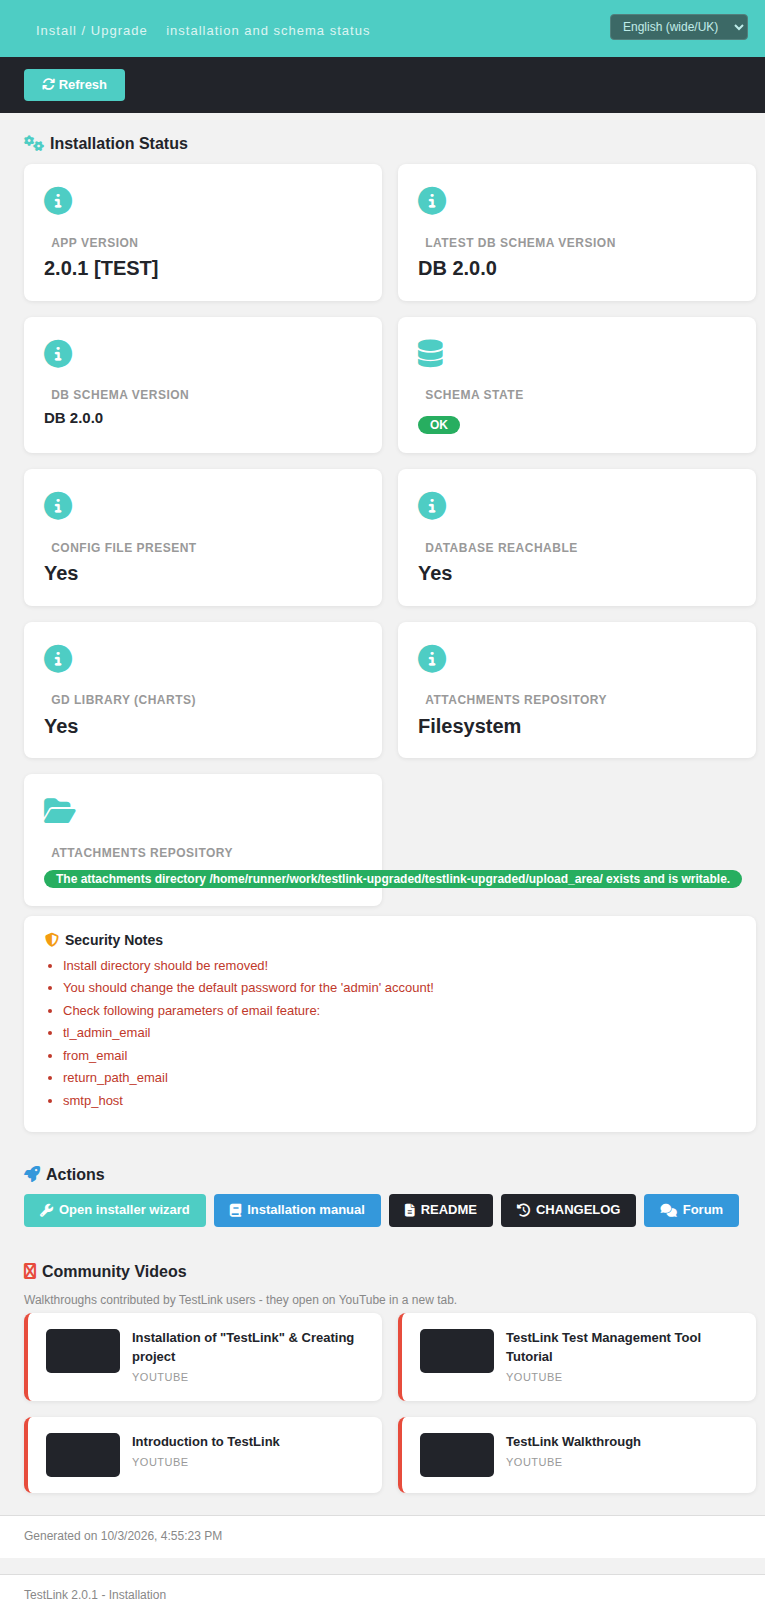
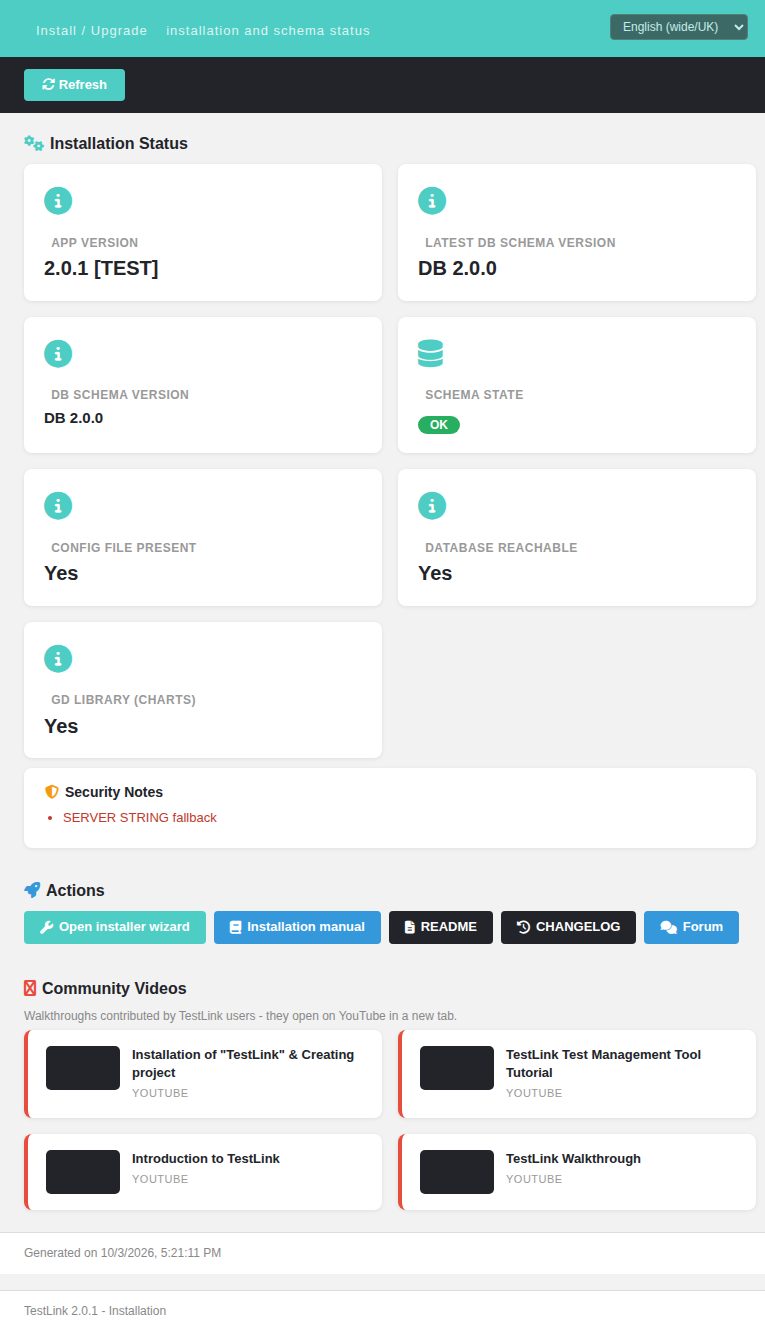
Install/Upgrade: harden the #1283 repository check after code review
- api/install/index.php: JSON_INVALID_UTF8_SUBSTITUTE + json_last_error() guard.
  A configured repository path that is not valid UTF-8 made json_encode() return
  false, so the endpoint answered HTTP 200 with an EMPTY body and the whole
  screen died silently (no Event Viewer / log trace). Measured: 0 bytes before,
  1626 bytes with a substituted character after.
- Drop the securityNoteItems hints when they are not index-parallel to
  securityNotes, so a future note appended to only one array can never shift
  the following notes onto the wrong text.
- install_check_repository_dir(): (string) cast, so a hand-edited non-string
  config value cannot raise a TypeError; docblock notes that the legacy
  function is still live at lib/functions/common.php:583 and that the result is
  a point-in-time snapshot.
- installView.html: TLi18n.has() guards both the localized note and the badge
  (TLi18n.t() returns the raw key for an unknown key, so the documented
  fallback to the server string never fired); distinct label for the directory
  card via the new install.repositoryDir key; "exists but not writable" now uses
  the existing .badge.warn instead of the schema-state red classes; '/' as path
  placeholder for an empty configured path.
- i18n: install.repositoryDir added to all 10 bundles (+1 line each).
- Docs/wiki: corrected the legacy note sites (login.php:230 and
  lib/functions/common.php:1853-1858, not mainPage.php:184 / common.php:1787)
[…]

Changed region(s): [[0.0, 0.0, 1.0, 1.0], [0.5111, 0.5848, 0.5412, 0.6156], [0.451, 0.5848, 0.481, 0.6156]]

diff --git a/gui/templates/install/installView.html b/gui/templates/install/installView.html
@@ -152,26 +152,31 @@ function renderRepositoryCards(grid, r) {
   var typeLabel = TLi18n.t(repo.typeCode === 'db' ? 'install.repoTypeDb' : 'install.repoTypeFs');
   grid.append(card(TLi18n.t('install.repository'), typeLabel));
 
+  // Path may be empty (hand-edited config): show a placeholder instead of a
+  // sentence with a hole in it.
+  var path = repo.path == null || repo.path === '' ? '/' : String(repo.path);
   var badgeCls = 'unknown', badgeKey = 'install.repoDirNotChecked', params = {};
   if (repo.checked) {
-    params = { path: repo.path == null ? '' : repo.path };
+    params = { path: path };
     if (repo.status_ok) {
       badgeCls = 'ok';
       badgeKey = 'install.repoDirOk';
     } else if (repo.exists) {
-      badgeCls = 'manual';
+      badgeCls = 'warn';
       badgeKey = 'install.repoDirNotWritable';
     } else {
       badgeCls = 'upgrade';
       badgeKey = 'install.repoDirMissing';
     }
   }
+  // TLi18n.t() returns the raw key when a bundle lacks it, so probe has() first.
+  var badgeText = TLi18n.has(badgeKey) ? TLi18n.t(badgeKey, params) : path;
   grid.append(
     $('<div class="card">')
       .append('<div class="icon"><i class="fa fa-folder-open"></i></div>')
-      .append('<div class="label">' + esc(TLi18n.t('install.repository')) + '</div>')
+      .append('<div class="label">' + esc(TLi18n.t('install.repositoryDir')) + '</div>')
       .append('<div class="value small"><span class="badge ' + badgeCls + '">' +
-              esc(TLi18n.t(badgeKey, params)) + '</span></div>')
+              esc(badgeText) + '</span></div>')
   );
 }
 
@@ -243,7 +248,9 @@ function renderStatus(r) {
     var items = Array.isArray(r.securityNoteItems) ? r.securityNoteItems : [];
     $.each(r.securityNotes, function(i, n) {
       var it = items[i];
-      var text = (it && it.key) ? TLi18n.t(it.key, it.params || {}) : n;
+      // TLi18n.t() returns the raw key for an unknown key, so has() guards the
+      // localized branch and the server string is used when a bundle is behind.
+      var text = (it && it.key && TLi18n.has(it.key)) ? TLi18n.t(it.key, it.params || {}) : n;
       ul.append($('<li>').text(text == null || text === '' ? n : text));
     });
   } else {

diff --git a/api/install/index.php b/api/install/index.php
@@ -100,12 +100,22 @@ function install_community_videos()
  * driven by getSecurityNotes() at :275-282 — only when repositoryType ==
  * TL_REPOSITORY_TYPE_FS. Message wording and the is_dir()/is_writable() logic
  * are kept identical to legacy so server-side consumers see the same text.
+ * The legacy function is still live elsewhere (login/dashboard, see
+ * lib/functions/common.php:583), so a change here must be mirrored there too.
+ *
+ * Point-in-time snapshot: `exists` and `writable` come from two syscalls, so a
+ * directory removed in between is reported as "exists but not writable". The
+ * note is informational only, exactly as in legacy.
  *
  * @return array {msg, status_ok, exists, writable}
  */
 function install_check_repository_dir($the_dir)
 {
     clearstatcache();
+
+    // config.inc.php always yields a string here, but a hand-edited config must
+    // not be able to turn the check into a TypeError (is_dir() requires a string).
+    $the_dir = (string) $the_dir;
 
     $ret['msg'] = lang_get('attachments_dir') . " " . $the_dir . " ";
     $ret['status_ok'] = false;
@@ -290,7 +300,15 @@ $configPresent = install_is_config_present();
 // GD / extensions used by reports (mirrors installCheck checks)
 $gdOk = (extension_loaded('gd') && function_exists('imagepng'));
 
-echo json_encode(array(
+// $securityNoteItems is index-parallel to $securityNotes: the front-end pairs
+// them by index, so a mismatch would shift every following note onto the wrong
+// text. Cheap safety net: if the two ever drift, drop the hints entirely and
+// let the front-end render the server strings.
+if (count($securityNotes) !== count($securityNoteItems)) {
+    $securityNoteItems = array_fill(0, count($securityNotes), null);
+}
+
+$payload = array(
     'status' => 'ok',
     'installed' => ($configPresent && $dbReachable && $schema['status'] == 'ok'),
     'configPresent' => $configPresent,
@@ -319,5 +337,21 @@ echo json_encode(array(
         // not hardcoded in the front-end.
         'forum'     => 'http://forum.testlink.org',
     ),
-    'videos' => install_community_videos(),
-));
+'videos' => install_community_videos(),
+);
+
+// A configured repository path is arbitrary text: on a legacy/latin-1 install it
+// can be invalid UTF-8, and json_encode() would then return false and emit an
+// EMPTY 200 response (killing the whole screen with no error anywhere).
+// JSON_INVALID_UTF8_SUBSTITUTE keeps the JSON valid; the json_last_error()
+// guard below turns any remaining encoding failure into a real JSON error.
+$body = json_encode($payload, JSON_INVALID_UTF8_SUBSTITUTE);
+if ($body === false || json_last_error() !== JSON_ERROR_NONE) {
+    http_response_code(500);
+    echo json_encode(array(
+        'status' => 'error',
+        'message' => 'Unable to serialize the installation status payload',
+    ));
+    exit;
+}
+echo $body;

diff --git a/tmp/TLU_Test_Cases.md b/tmp/TLU_Test_Cases.md
@@ -5040,3 +5040,24 @@ it is why H1 is not listed under discriminating coverage above.
 - Gates: `php -l api/install/index.php` OK; `node --check` on the extracted inline script OK; `python3 -m json.tool` valid on all 10 locale bundles.
 
 ### Result: PASS (7/7 steps)
+
+### Post-review hardening addendum — Issue #1283 (code-review findings closed)
+
+Added after a subagent code review of commit `086d0d92a`; re-executed the affected paths.
+
+| # | Finding | Fix | Measured after fix |
+|---|---------|-----|--------------------|
+| H1 | MAJOR — `json_encode()` returns `false` on an invalid-UTF-8 configured repository path and the endpoint answered **HTTP 200 with an empty body**, killing the whole screen silently | `json_encode($payload, JSON_INVALID_UTF8_SUBSTITUTE)` + `json_last_error()` guard returning a real `500` JSON error (`api/install/index.php`) | server started with `TESTLINK_UPLOAD_AREA=$'/tmp/tlu_caf\xe9'` → `HTTP=200 bytes=1626`, `repository.path = "/tmp/tlu_caf\ufffd"`, note + `securityNoteItems[last].params.path` intact (before the fix: 0 bytes) |
+| H2 | MINOR — documented "fall back to the server string" never fired: `TLi18n.t()` returns the raw key for an unknown key | `TLi18n.has(key)` guard on both the security note and the badge (`installView.html`) | injected a payload with `securityNoteItems[last].key='install.keyDoesNotExist'` → list item reads `SERVER STRING fallback` (was `install.keyDoesNotExist`) |
+| H3 | MINOR — both new cards were labelled "ATTACHMENTS REPOSITORY" | new key `install.repositoryDir` in all 10 bundles, used as the second card's label | labels are now `["…","Attachments repository","Attachments directory"]` |
+| H4 | NIT — "exists but not writable" reused the schema-state `manual` class (red) | `.badge.warn` (orange, already in the stylesheet) | injected not-writable payload → `badge warn :: The attachments directory /tmp/x exists but is not writable.` |
+| H5 | MINOR — three parallel note arrays that could drift and shift texts | `count($securityNotes) !== count($securityNoteItems)` → hints dropped, server strings rendered | healthy payload 6 notes / 6 items aligned; probe with 1 note / 1 item renders correctly |
+| H6 | NIT — `is_dir()` TypeError on a non-string config value; empty path produced a sentence with a hole | `(string)` cast in `install_check_repository_dir()`; `'/'` placeholder in `params.path` | `php -l` clean, DB-type probe renders `Attachments directory` + `unknown` badge |
+| H7 | NIT — docs cited `mainPage.php:184` / `common.php:1787`, which hold no security notes | corrected to `login.php:230` and `lib/functions/common.php:1853-1858`, and the gap explicitly scoped to the modernized screen (legacy login/main page still emit the note) | docs + wiki updated |
+
+Regression re-checked after the hardening: healthy FS dir → green `badge ok`, no repository note,
+6 security notes unchanged; DB type → no `repository_dir` code, `unknown` badge; missing
+`repository` field (older BFF) → 0 extra cards, no exception; `node --check` OK;
+`php -l` OK; `json.tool` valid on all 10 bundles; Event Viewer clean (`select log_level,
+count(*) from events group by log_level` → `16 3`, audit rows only); console clean.
+### Result: PASS (7/7 hardening items, regression intact)

diff --git a/docs/Install-Upgrade-Modernized.md b/docs/Install-Upgrade-Modernized.md
@@ -214,8 +214,10 @@ if ($repository['type'] == TL_REPOSITORY_TYPE_FS) {
 
 `checkForRepositoryDir()` (`:368-390`) is a `is_dir()` + `is_writable()` test that composes
 the note out of localized fragments: `directory for attachments: <path> does not exist` /
-`… exists The directory is not writable!`. The note was displayed on `login.php:230`,
-`mainPage.php:184` and `common.php:1787`.
+`… exists The directory is not writable!`. The note was displayed by the legacy login page
+(`login.php:230`) and by the main page (`lib/functions/common.php:1853-1858`, gated by
+`config_get('config_check_warning_frequence')`), so the gap of this issue is scoped to the
+**modernized Install / Upgrade screen**, which had no equivalent check at all.
 
 Modernization ported the install-dir / LDAP / default-admin-password / e-mail-config notes
 into `api/install/index.php`, but never the FS branch — an installation whose attachments
